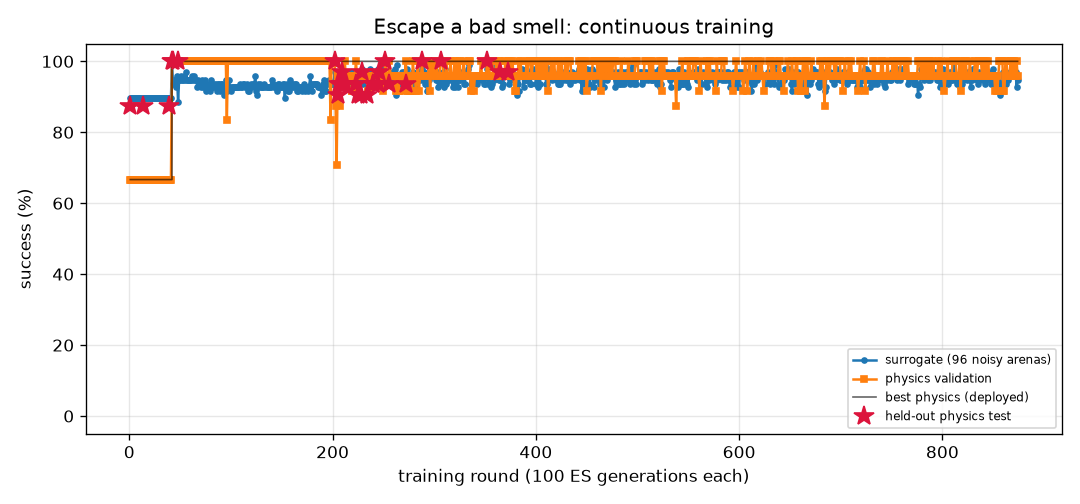
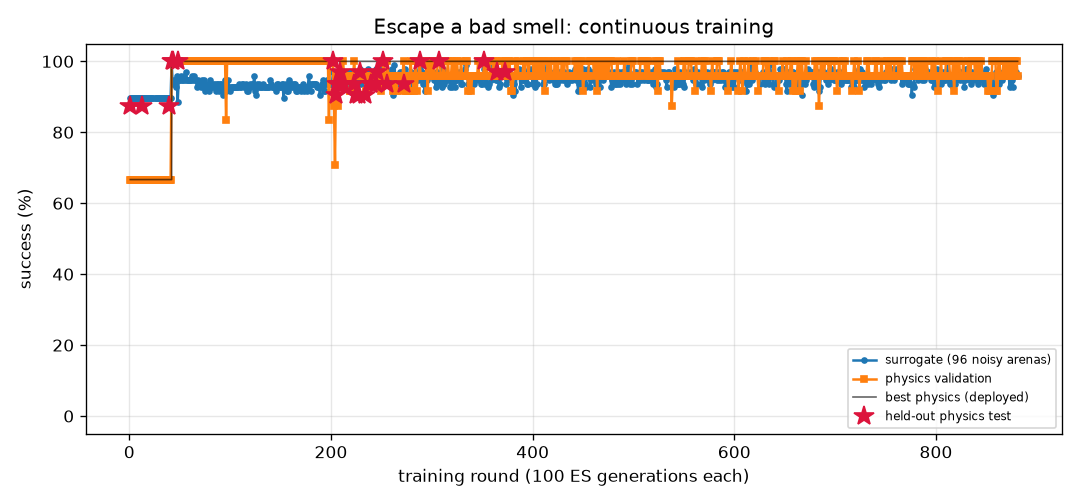
FlyLab: continuous training progress
- walk_forward: optimal, physics val 100% of 24, round 356
- turn: optimal, physics val 100% of 24, round 990
- goto: optimal, physics val 100% of 24, round 284
- odor_seek: optimal, physics val 100% of 24, round 232
- odor_avoid: optimal, physics val 100% of 24, round 881
- light_seek: optimal, physics val 100% of 24, round 479
- light_avoid: optimal, physics val 100% of 24, round 611

diff --git a/projects/09_flylab/training/odor_avoid/REPORT.md b/projects/09_flylab/training/odor_avoid/REPORT.md
@@ -1,14 +1,14 @@
 # Escape a bad smell (`odor_avoid`) — training report
 
-*Auto-generated by `train_brains.py`, last updated 2026-11-09T23:48:30.*
+*Auto-generated by `train_brains.py`, last updated 2026-11-10T22:11:29.*
 
 ![curve](curve.png)
 
 | | |
 |---|---|
-| rounds | 874 |
-| ES generations | 87400 |
-| physics runs | 18282 |
+| rounds | 881 |
+| ES generations | 88100 |
+| physics runs | 18450 |
 | status | **optimal** |
 | best brain | round 373: physics validation **100%** on 24 arenas, surrogate 97% |
 | held-out physics test | **97%** on 32 unseen arenas (95% CI 84%-99%) (errors: [62.0, 57.4, 62.6, 61.9, 59.0, 61.6, 56.5, 60.7, 31.7, 60.9, 63.1, 57.1, 61.1, 62.1, 61.5, 60.2, 62.2, 55.2, 62.1, 54.2, 61.3, 62.0, 58.0, 61.9, 59.8, 56.5, 56.3, 56.4, 56.3, 57.7, 61.9, 32.4]) |
@@ -17,13 +17,6 @@ Physics error per arena: mm gained away from source (> 6 without first approachi
 
 | round | level | gens | sigma | surrogate | physics val | val errors | test | note |
 |---:|---:|---:|---:|---:|---:|---|---:|---|
-| 835 | 3 | 83500 | 0.027 | 94% | 100% | [62.1, 59.7, 56.5, 59.9, 62.6, 62.8, 61.9, 60.9, 62.0, 62.6, 62.6, 62.0, 55.3, 56.7, 51.4, 62.5, 62.2, 62.9, 54.3, 56.9, 62.1, 61.8, 58.4, 61.4] |  |  |
-| 836 | 3 | 83600 | 0.028 | 97% | 100% | [58.9, 51.0, 54.5, 51.5, 59.9, 55.1, 54.3, 48.5, 54.8, 53.1, 51.2, 59.6, 49.2, 54.6, 45.2, 59.1, 59.8, 56.8, 51.5, 51.1, 59.2, 55.5, 51.5, 56.1] |  |  |
-| 837 | 3 | 83700 | 0.026 | 95% | 100% | [62.9, 56.6, 56.8, 55.5, 62.9, 61.8, 61.1, 28.9, 61.2, 58.3, 62.4, 62.6, 55.0, 56.9, 50.9, 61.5, 62.3, 60.6, 54.9, 57.1, 62.6, 60.7, 55.6, 57.5] |  | restart from best |
-| 838 | 3 | 83800 | 0.026 | 96% | 100% | [62.7, 60.8, 56.4, 59.3, 62.2, 62.6, 61.1, 55.3, 60.8, 35.6, 61.3, 62.2, 54.7, 56.3, 49.6, 62.1, 62.4, 61.5, 55.4, 57.6, 62.2, 62.4, 59.3, 41.9] |  |  |
-| 839 | 3 | 83900 | 0.026 | 96% | 96% | [63.4, 60.0, 57.1, 61.0, 61.9, 61.4, 62.1, 36.6, 60.0, 58.0, 61.8, 61.6, 54.7, 58.4, 36.9, 62.4, 62.3, 60.5, 55.4, 56.5, 62.2, 43.7, 57.9, 52.6] |  |  |
-| 840 | 3 | 84000 | 0.026 | 95% | 96% | [62.9, 57.1, 56.9, 57.1, 62.0, 47.7, 61.8, 25.6, 60.2, 25.1, 54.4, 62.6, 52.4, 58.2, 36.5, 62.4, 61.9, 42.1, 54.8, 57.3, 61.6, 37.5, 57.8, 32.7] |  |  |
-| 841 | 3 | 84100 | 0.027 | 95% | 100% | [62.5, 57.4, 58.2, 58.2, 62.8, 61.1, 60.9, 58.4, 61.0, 46.7, 62.5, 61.6, 55.2, 58.3, 52.1, 62.4, 62.3, 62.1, 55.4, 57.1, 61.8, 61.2, 61.2, 62.3] |  | restart from best |
 | 842 | 3 | 84200 | 0.026 | 94% | 96% | [63.0, 56.9, 55.8, 61.0, 62.3, 62.9, 61.0, 63.2, 61.4, 62.4, 61.1, 61.7, 49.8, 55.3, 42.4, 62.0, 62.0, 61.9, 52.6, 57.8, 61.4, 63.2, 61.6, 62.9] |  |  |
 | 843 | 3 | 84300 | 0.028 | 97% | 100% | [63.5, 55.9, 55.8, 58.5, 61.0, 60.9, 61.0, 51.8, 60.6, 59.6, 52.3, 61.7, 52.6, 56.5, 39.1, 61.9, 62.3, 62.3, 54.9, 56.2, 62.5, 61.1, 58.3, 62.4] |  |  |
 | 844 | 3 | 84400 | 0.026 | 95% | 96% | [62.7, 60.9, 56.9, 56.1, 62.2, 61.3, 61.6, 23.8, 61.1, 35.2, 60.8, 61.2, 52.2, 55.2, 38.7, 60.5, 61.0, 60.2, 54.6, 58.3, 61.2, 54.1, 55.6, 49.8] |  |  |
@@ -57,3 +50,10 @@ Physics error per arena: mm gained away from source (> 6 without first approachi
 | 872 | 3 | 87200 | 0.026 | 97% | 96% | [62.0, 56.7, 56.5, 57.1, 62.1, 62.9, 62.0, 60.0, 62.5, 62.4, 61.1, 61.8, 55.2, 56.3, 31.4, 61.4, 62.1, 62.6, 55.3, 55.6, 62.0, 62.7, 60.9, 61.7] |  |  |
 | 873 | 3 | 87300 | 0.026 | 93% | 100% | [62.8, 57.1, 56.4, 57.5, 61.3, 61.9, 61.1, 54.1, 61.7, 60.0, 46.8, 61.2, 54.8, 55.3, 29.6, 62.1, 61.5, 62.2, 52.9, 56.8, 61.3, 57.2, 61.4, 48.1] |  | restart from best |
 | 874 | 3 | 87400 | 0.026 | 95% | 96% | [60.2, 57.4, 55.5, 55.9, 57.3, 49.2, 59.2, 57.2, 58.7, 54.1, 29.1, 59.8, 45.9, 52.7, 36.5, 59.4, 59.9, 52.9, 50.0, 55.6, 59.5, 58.4, 56.9, 58.2] |  |  |
+| 875 | 3 | 87500 | 0.027 | 95% | 100% | [60.0, 53.5, 57.9, 52.8, 60.5, 61.7, 59.3, 41.9, 59.5, 59.6, 40.4, 60.0, 50.6, 57.2, 43.4, 60.0, 60.2, 61.0, 51.8, 56.5, 59.5, 59.9, 57.4, 58.5] |  |  |
+| 876 | 3 | 87600 | 0.027 | 93% | 100% | [60.1, 56.7, 57.3, 55.5, 60.0, 60.8, 58.6, 39.7, 58.4, 57.5, 40.0, 58.7, 49.4, 53.5, 34.5, 60.7, 58.8, 60.5, 50.0, 53.6, 58.7, 59.0, 52.0, 57.6] |  |  |
+| 877 | 3 | 87700 | 0.028 | 96% | 96% | [60.4, 54.2, 56.7, 55.0, 60.6, 62.2, 57.6, 43.8, 60.8, 60.7, 58.9, 60.0, 49.5, 55.4, 48.0, 61.9, 59.7, 61.9, 50.5, 57.6, 59.9, 61.4, 58.7, 58.5] |  | restart from best |
+| 878 | 3 | 87800 | 0.026 | 96% | 100% | [63.1, 60.1, 58.4, 61.1, 61.6, 60.8, 61.9, 42.9, 60.1, 59.7, 61.6, 61.0, 52.0, 54.9, 45.8, 62.1, 61.2, 60.6, 55.0, 55.0, 61.0, 59.0, 57.7, 59.4] |  |  |
+| 879 | 3 | 87900 | 0.026 | 97% | 96% | [63.9, 61.6, 58.2, 59.8, 61.6, 61.2, 61.8, 62.5, 60.5, 60.8, 58.8, 60.1, 49.0, 55.9, 34.2, 62.4, 61.2, 61.7, 53.5, 56.0, 60.6, 62.7, 59.3, 62.8] |  |  |
+| 880 | 3 | 88000 | 0.026 | 96% | 100% | [62.8, 57.7, 58.7, 57.5, 60.0, 60.6, 62.2, 60.0, 60.6, 60.7, 61.1, 60.7, 52.4, 54.6, 45.5, 61.1, 60.3, 61.3, 53.3, 57.5, 60.3, 61.3, 56.4, 61.3] |  |  |
+| 881 | 3 | 88100 | 0.026 | 96% | 96% | [63.1, 54.9, 58.6, 57.3, 62.0, 61.2, 61.6, 60.8, 60.0, 60.5, 61.2, 60.0, 53.8, 58.5, 44.5, 61.0, 60.1, 61.3, 54.4, 56.3, 59.9, 61.4, 57.8, 61.5] |  | restart from best |

diff --git a/projects/09_flylab/training/light_avoid/REPORT.md b/projects/09_flylab/training/light_avoid/REPORT.md
@@ -1,14 +1,14 @@
 # Hide from light (`light_avoid`) — training report
 
-*Auto-generated by `train_brains.py`, last updated 2026-11-10T00:03:38.*
+*Auto-generated by `train_brains.py`, last updated 2026-11-10T22:16:12.*
 
 ![curve](curve.png)
 
 | | |
 |---|---|
-| rounds | 605 |
-| ES generations | 60500 |
-| physics runs | 14792 |
+| rounds | 611 |
+| ES generations | 61100 |
+| physics runs | 14936 |
 | status | **optimal** |
 | best brain | round 159: physics validation **100%** on 24 arenas, surrogate 100% |
 | held-out physics test | **100%** on 32 unseen arenas (95% CI 89%-100%) (errors: [14.4, 56.1, 58.0, 57.9, 57.5, 14.0, 14.4, 56.6, 56.8, 13.3, 14.1, 56.6, 57.6, 13.1, 57.3, 55.9, 57.2, 55.0, 55.2, 53.9, 55.2, 12.4, 53.8, 53.7, 14.1, 13.7, 55.0, 57.8, 56.2, 13.1, 52.8, 56.5]) |
@@ -17,12 +17,6 @@ Physics error per arena: mm gained away from source (> 6 without first approachi
 
 | round | level | gens | sigma | surrogate | physics val | val errors | test | note |
 |---:|---:|---:|---:|---:|---:|---|---:|---|
-| 566 | 3 | 56600 | 0.026 | 96% | 100% | [45.7, 59.7, 59.5, 10.1, 58.2, 56.1, 58.6, 14.5, 54.7, 13.3, 58.3, 57.9, 14.4, 56.2, 59.6, 8.9, 14.2, 58.8, 59.9, 14.4, 8.7, 58.6, 58.3, 57.2] |  |  |
-| 567 | 3 | 56700 | 0.026 | 93% | 96% | [6.2, 49.4, 49.0, 7.3, 48.6, 4.5, 47.9, 14.5, 46.3, 13.2, 47.1, 48.3, 14.4, 47.8, 49.4, 9.0, 14.2, 49.0, 49.8, 14.4, 8.7, 47.5, 47.5, 47.7] |  | restart from best |
-| 568 | 3 | 56800 | 0.024 | 100% | 100% | [47.0, 47.2, 46.9, 47.1, 50.3, 47.7, 44.9, 14.5, 39.5, 13.4, 49.0, 50.1, 14.4, 48.5, 47.2, 49.0, 14.2, 50.1, 47.6, 14.4, 48.4, 48.9, 45.8, 50.0] |  |  |
-| 569 | 3 | 56900 | 0.024 | 100% | 100% | [51.3, 56.0, 55.5, 52.2, 56.7, 52.4, 53.8, 14.5, 49.1, 13.4, 54.4, 56.5, 14.3, 55.2, 55.7, 51.7, 14.2, 57.0, 56.2, 14.4, 53.6, 54.2, 53.9, 56.2] |  |  |
-| 570 | 3 | 57000 | 0.024 | 100% | 100% | [52.0, 55.9, 55.7, 53.0, 55.5, 53.1, 54.5, 14.5, 51.6, 13.1, 55.6, 55.3, 14.4, 53.9, 55.8, 54.1, 14.2, 56.0, 56.2, 14.4, 54.3, 55.6, 54.5, 54.8] |  |  |
-| 571 | 3 | 57100 | 0.024 | 100% | 100% | [57.1, 60.4, 60.3, 56.9, 58.3, 57.6, 59.6, 14.5, 48.2, 13.5, 58.8, 58.0, 14.4, 56.5, 60.4, 56.7, 14.2, 59.0, 60.5, 14.4, 57.9, 58.9, 59.3, 57.1] |  | restart from best |
 | 572 | 3 | 57200 | 0.024 | 100% | 100% | [37.4, 36.0, 37.1, 36.3, 38.6, 38.5, 31.2, 14.5, 38.1, 13.1, 39.4, 37.2, 14.3, 38.3, 37.1, 38.6, 14.2, 37.5, 36.6, 14.4, 36.8, 39.5, 33.4, 37.6] |  |  |
 | 573 | 3 | 57300 | 0.024 | 100% | 100% | [53.4, 54.4, 55.2, 53.8, 49.9, 52.8, 55.3, 14.5, 48.0, 13.2, 49.6, 50.0, 14.3, 49.2, 55.1, 53.6, 14.2, 52.0, 54.6, 14.4, 52.8, 51.4, 55.0, 48.8] |  |  |
 | 574 | 3 | 57400 | 0.024 | 100% | 100% | [53.2, 56.0, 56.0, 53.2, 51.9, 53.6, 55.5, 14.5, 48.8, 13.1, 54.3, 52.1, 14.4, 50.8, 55.9, 53.7, 14.2, 53.3, 55.3, 14.4, 53.7, 52.7, 55.5, 50.8] |  |  |
@@ -57,3 +51,9 @@ Physics error per arena: mm gained away from source (> 6 without first approachi
 | 603 | 3 | 60300 | 0.024 | 100% | 100% | [57.3, 61.3, 61.1, 57.8, 61.0, 58.3, 59.7, 14.5, 57.6, 13.3, 60.1, 60.9, 14.4, 60.3, 61.2, 56.8, 14.2, 61.6, 61.7, 14.4, 56.7, 60.2, 59.6, 60.3] |  | restart from best |
 | 604 | 3 | 60400 | 0.024 | 100% | 100% | [54.7, 57.0, 56.8, 55.0, 56.3, 55.3, 55.4, 14.5, 45.3, 13.5, 55.2, 56.0, 14.4, 54.3, 56.9, 54.8, 14.2, 56.7, 57.2, 14.4, 53.4, 54.5, 55.2, 55.5] |  |  |
 | 605 | 3 | 60500 | 0.024 | 100% | 100% | [45.8, 49.0, 49.0, 47.9, 50.3, 46.5, 47.3, 14.5, 42.0, 13.6, 50.1, 50.3, 14.4, 48.4, 48.7, 49.1, 14.2, 50.5, 49.1, 14.4, 49.4, 50.2, 47.2, 49.8] |  |  |
+| 606 | 3 | 60600 | 0.024 | 100% | 100% | [45.4, 47.1, 46.4, 47.3, 50.2, 45.8, 44.1, 14.5, 47.1, 13.3, 50.1, 50.5, 14.4, 50.2, 46.5, 46.7, 14.2, 50.2, 46.9, 14.4, 43.2, 50.5, 44.5, 50.3] |  |  |
+| 607 | 3 | 60700 | 0.024 | 100% | 100% | [50.7, 54.1, 53.7, 52.2, 56.0, 52.3, 51.7, 14.5, 42.3, 13.4, 54.1, 56.1, 14.4, 54.4, 53.6, 52.4, 14.2, 56.0, 54.4, 14.4, 52.4, 53.9, 51.6, 55.6] |  | restart from best |
+| 608 | 3 | 60800 | 0.024 | 100% | 100% | [57.2, 61.2, 60.9, 58.1, 60.3, 58.0, 59.8, 14.5, 56.6, 13.3, 59.8, 60.1, 14.4, 59.9, 61.1, 57.7, 14.2, 60.9, 61.4, 14.4, 58.3, 59.8, 59.6, 59.5] |  |  |
+| 609 | 3 | 60900 | 0.024 | 100% | 100% | [53.8, 55.8, 55.5, 54.2, 55.5, 54.3, 54.1, 14.5, 50.6, 13.2, 54.0, 55.3, 14.4, 55.1, 55.5, 54.5, 14.2, 55.9, 56.1, 14.4, 52.3, 54.2, 54.0, 54.8] |  |  |
+| 610 | 3 | 61000 | 0.024 | 100% | 100% | [51.9, 56.6, 56.6, 52.9, 57.9, 53.8, 54.7, 14.5, 53.9, 13.3, 55.4, 57.7, 14.4, 56.3, 56.5, 55.7, 14.2, 58.1, 57.2, 14.4, 53.4, 56.2, 55.0, 57.3] |  |  |
+| 611 | 3 | 61100 | 0.024 | 100% | 100% | [57.4, 59.2, 58.9, 54.8, 59.5, 55.0, 57.6, 14.5, 53.9, 13.5, 58.1, 59.4, 14.4, 58.0, 59.0, 53.8, 14.2, 59.8, 59.5, 14.4, 56.3, 57.9, 57.2, 58.9] |  | restart from best |

diff --git a/projects/09_flylab/training/turn/REPORT.md b/projects/09_flylab/training/turn/REPORT.md
@@ -1,14 +1,14 @@
 # Turn in place (`turn`) — training report
 
-*Auto-generated by `train_brains.py`, last updated 2026-11-10T21:17:31.*
+*Auto-generated by `train_brains.py`, last updated 2026-11-10T21:23:37.*
 
 ![curve](curve.png)
 
 | | |
 |---|---|
-| rounds | 989 |
-| ES generations | 98900 |
-| physics runs | 23982 |
+| rounds | 990 |
+| ES generations | 99000 |
+| physics runs | 24006 |
 | status | **optimal** |
 | best brain | round 80: physics validation **100%** on 24 arenas, surrogate 100% |
 | held-out physics test | **97%** on 32 unseen arenas (95% CI 84%-99%) (errors: [1.6, 3.3, 6.3, 3.7, 1.1, 0.4, 2.4, 2.9, 0.1, 2.6, 0.5, 2.7, 1.5, 3.1, 4.5, 0.2, 0.5, 1.1, 2.0, 4.4, 2.8, 3.2, 0.3, 2.2, 0.5, 3.0, 0.3, 5.4, 0.4, 1.0, 4.7, 10.7]) |
@@ -17,7 +17,6 @@ Physics error per arena: deg from target heading (< 20 = success).
 
 | round | level | gens | sigma | surrogate | physics val | val errors | test | note |
 |---:|---:|---:|---:|---:|---:|---|---:|---|
-| 950 | 3 | 95000 | 0.025 | 98% | 71% | [6.0, 2.5, 6.3, 2.0, 12.8, 16.0, 5.0, 6.2, 5.5, 1.4, 5.4, 0.6, 1.8, 2.2, 5.5, 3.8, 0.8, 2.8, 4.0, 0.6, 5.0, 2.7, 8.0, 8.0] |  |  |
 | 951 | 3 | 95100 | 0.025 | 99% | 79% | [1.7, 0.5, 1.8, 2.1, 0.7, 0.7, 4.3, 8.8, 6.9, 0.1, 4.8, 1.7, 0.0, 0.4, 5.0, 2.1, 1.7, 2.6, 3.5, 3.9, 4.8, 1.0, 6.0, 6.0] |  |  |
 | 952 | 3 | 95200 | 0.025 | 99% | 88% | [1.6, 1.9, 2.9, 0.9, 0.5, 1.0, 5.1, 4.3, 4.8, 0.7, 3.8, 1.6, 0.7, 2.0, 3.9, 0.6, 1.4, 0.4, 0.6, 1.1, 1.8, 2.3, 6.9, 0.5] |  | restart from best |
 | 953 | 3 | 95300 | 0.024 | 99% | 83% | [2.8, 0.7, 5.0, 0.0, 1.2, 3.0, 6.4, 8.8, 7.0, 2.6, 5.4, 0.7, 0.2, 0.5, 4.7, 1.3, 1.1, 4.4, 0.9, 2.8, 4.4, 1.7, 7.2, 3.4] |  |  |
@@ -57,3 +56,4 @@ Physics error per arena: deg from target heading (< 20 = success).
 | 987 | 3 | 98700 | 0.025 | 100% | 96% | [6.6, 2.8, 1.5, 0.1, 1.6, 4.1, 8.1, 8.8, 8.8, 3.7, 2.2, 4.1, 0.4, 0.5, 2.5, 8.5, 4.2, 3.9, 13.9, 4.4, 4.2, 2.8, 7.5, 6.5] |  |  |
 | 988 | 3 | 98800 | 0.024 | 100% | 75% | [0.4, 1.0, 4.8, 1.8, 16.1, 2.9, 5.4, 9.6, 5.8, 1.9, 5.0, 1.4, 4.1, 1.7, 5.7, 2.6, 1.8, 3.8, 2.5, 1.3, 4.3, 2.0, 6.9, 5.5] |  | restart from best |
 | 989 | 3 | 98900 | 0.024 | 97% | 79% | [6.6, 10.0, 1.1, 1.4, 3.3, 0.2, 2.9, 5.6, 3.0, 0.5, 2.7, 2.4, 2.3, 5.0, 1.8, 0.6, 2.9, 0.2, 1.1, 1.2, 6.6, 1.0, 4.0, 5.1] |  |  |
+| 990 | 3 | 99000 | 0.026 | 100% | 88% | [1.4, 2.7, 4.5, 0.2, 0.7, 4.5, 7.2, 8.9, 7.2, 15.6, 4.5, 1.8, 2.4, 0.2, 4.8, 4.1, 2.1, 2.2, 4.3, 3.3, 0.1, 4.2, 6.8, 4.9] |  |  |

diff --git a/projects/09_flylab/training/TRAINING.md b/projects/09_flylab/training/TRAINING.md
@@ -1,15 +1,15 @@
 # FlyLab brains — continuous training log
 
-*Auto-generated by `train_brains.py`, last updated 2026-11-10T21:17:31.*
+*Auto-generated by `train_brains.py`, last updated 2026-11-10T22:16:12.*
 
 Every skill has its own brain and its own training process: surrogate ES rounds, physics validation in MuJoCo, keep-the-best selection, and a held-out physics test that is never used for selection. See each skill's report for its full round-by-round history. Mastery is progressive: passing a level (100% physics validation, >=95% surrogate) doubles the validation and test arena sets; a brain is **optimal** once it holds up at level 3 (>=95% of 24 validation arenas) AND scores >=90% on the 32 held-out test arenas. Test columns show 95% Wilson confidence intervals.
 
 | skill | rounds | ES generations | physics runs | surrogate | physics val | **physics test** | status |
 |---|---:|---:|---:|---:|---:|---:|---|
 | [Walk forward](walk_forward/REPORT.md) | 356 | 35600 | 8558 | 100% | 100% of 24 | 100% of 32 (CI 89-100%) | **optimal** |
-| [Turn in place](turn/REPORT.md) | 989 | 98900 | 23982 | 100% | 100% of 24 | 97% of 32 (CI 84-99%) | **optimal** |
+| [Turn in place](turn/REPORT.md) | 990 | 99000 | 24006 | 100% | 100% of 24 | 97% of 32 (CI 84-99%) | **optimal** |
 | [Go to a location](goto/REPORT.md) | 284 | 28400 | 6766 | 100% | 100% of 24 | 100% of 32 (CI 89-100%) | **optimal** |
 | [Find food by smell](odor_seek/REPORT.md) | 232 | 23200 | 4998 | 100% | 100% of 24 | 100% of 32 (CI 89-100%) | **optimal** |
-| [Escape a bad smell](odor_avoid/REPORT.md) | 874 | 87400 | 18282 | 97% | 100% of 24 | 97% of 32 (CI 84-99%) | **optimal** |
+| [Escape a bad smell](odor_avoid/REPORT.md) | 881 | 88100 | 18450 | 97% | 100% of 24 | 97% of 32 (CI 84-99%) | **optimal** |
 | [Walk toward light](light_seek/REPORT.md) | 479 | 47900 | 8376 | 100% | 100% of 24 | 100% of 32 (CI 89-100%) | **optimal** |
-| [Hide from light](light_avoid/REPORT.md) | 605 | 60500 | 14792 | 100% | 100% of 24 | 100% of 32 (CI 89-100%) | **optimal** |
+| [Hide from light](light_avoid/REPORT.md) | 611 | 61100 | 14936 | 100% | 100% of 24 | 100% of 32 (CI 89-100%) | **optimal** |
